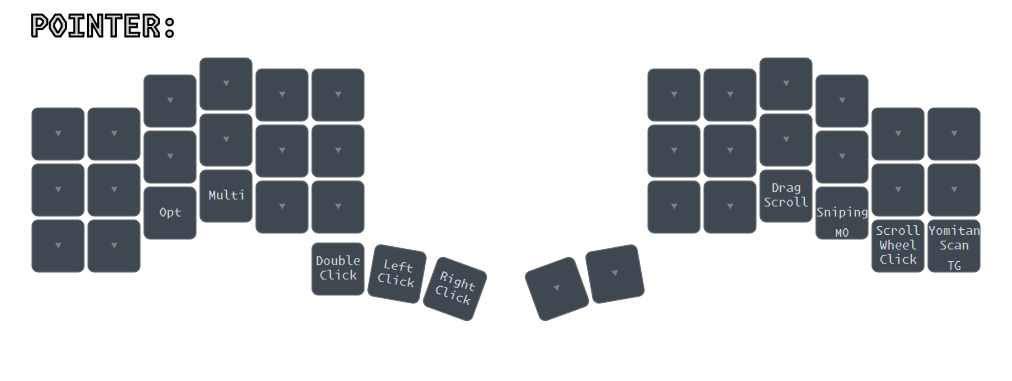
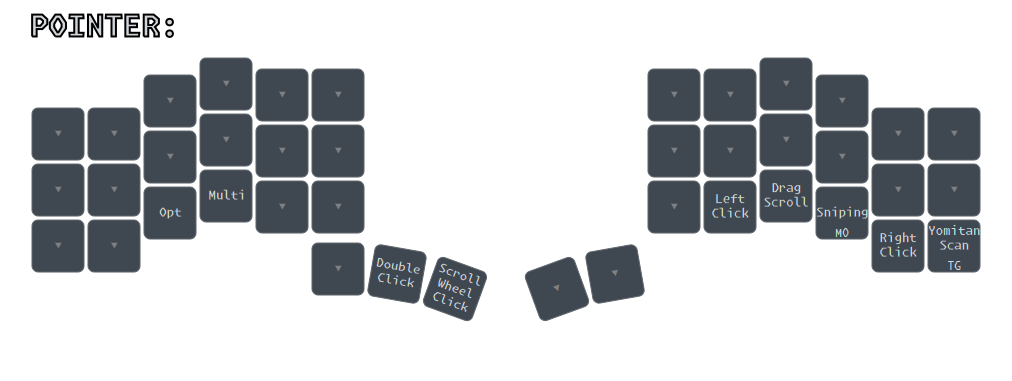
added mouse key combos

Changed region(s): [[0.3063, 0.664, 0.4901, 0.8084], [0.8577, 0.5774, 0.919, 0.6929], [0.7045, 0.4908, 0.7352, 0.5774]]

diff --git a/keyboards/bastardkb/charybdis/3x6/keymaps/eristocrates/keymap.c b/keyboards/bastardkb/charybdis/3x6/keymaps/eristocrates/keymap.c
@@ -214,9 +214,9 @@ const uint16_t PROGMEM keymaps[][MATRIX_ROWS][MATRIX_COLS] = {
   /* ├──────────────────────────────────────────────────────┤ ├──────────────────────────────────────────────────────┤ */
        _______, _______, _______, _______, _______, _______,    _______, _______, _______, _______, _______, _______,
   /* ├──────────────────────────────────────────────────────┤ ├──────────────────────────────────────────────────────┤ */
-       _______, _______, PNTROPT, KC_MLTI, _______, _______,    _______, _______, KC_DGSC, KC_SNPE, KC_BTN3, SCN_TOG,
+       _______, _______, PNTROPT, KC_MLTI, _______, _______,    _______, KC_BTN1, KC_DGSC, KC_SNPE, KC_BTN2, SCN_TOG,
   /* ╰──────────────────────────────────────────────────────┤ ├──────────────────────────────────────────────────────╯ */
-                                  KC_DBCL, KC_BTN1, KC_BTN2,      _______, _______
+                                  _______, KC_DBCL, KC_BTN3,      _______, _______
   /*                            ╰───────────────────────────╯ ╰──────────────────╯                                     */
   ),
 
@@ -324,7 +324,7 @@ const uint16_t PROGMEM keymaps[][MATRIX_ROWS][MATRIX_COLS] = {
   /* ├──────────────────────────────────────────────────────┤ ├──────────────────────────────────────────────────────┤ */
        _______, _______, _______, _______, _______, _______,    _______, _______, _______, _______, _______,    BASE,
   /* ╰──────────────────────────────────────────────────────┤ ├──────────────────────────────────────────────────────╯ */
-                                  _______, SECRETR, _______,    SECRET1, SECRET2
+                                  _______, SECRETR, SECRET3,    SECRET1, SECRET2
   /*                            ╰───────────────────────────╯ ╰──────────────────╯                                     */
   ),
 

diff --git a/users/eristocrates/eristocrates.c b/users/eristocrates/eristocrates.c
@@ -842,7 +842,7 @@ bool process_record_user(uint16_t keycode, keyrecord_t *record) {
             return false;
         }
         // konami code
-        if (input_buffer[INPUT_BUFFER_SIZE - 10] == KC_R && input_buffer[INPUT_BUFFER_SIZE - 9] == KC_R && input_buffer[INPUT_BUFFER_SIZE - 8] == KC_T && input_buffer[INPUT_BUFFER_SIZE - 7] == KC_T && input_buffer[INPUT_BUFFER_SIZE - 6] == KC_S && input_buffer[INPUT_BUFFER_SIZE - 5] == KC_N && input_buffer[INPUT_BUFFER_SIZE - 4] == KC_S && input_buffer[INPUT_BUFFER_SIZE - 3] == KC_N && input_buffer[INPUT_BUFFER_SIZE - 2] == KC_B && input_buffer[INPUT_BUFFER_SIZE - 1] == KC_A) {
+        if (input_buffer[INPUT_BUFFER_SIZE - 10] == KC_R && input_buffer[INPUT_BUFFER_SIZE - 9] == KC_R && input_buffer[INPUT_BUFFER_SIZE - 8] == KC_T && input_buffer[INPUT_BUFFER_SIZE - 7] == KC_T && input_buffer[INPUT_BUFFER_SIZE - 6] == KC_S && input_buffer[INPUT_BUFFER_SIZE - 5] == KC_N && input_buffer[INPUT_BUFFER_SIZE - 4] == KC_S && input_buffer[INPUT_BUFFER_SIZE - 3] == KC_N && input_buffer[INPUT_BUFFER_SIZE - 2] == KC_U && input_buffer[INPUT_BUFFER_SIZE - 1] == KC_A) {
             register_code(KC_LSFT);
             tap_code(KC_HOME);
             unregister_code(KC_LSFT);
@@ -1682,6 +1682,14 @@ bool process_record_user(uint16_t keycode, keyrecord_t *record) {
         case SECRET2: {
             if (record->event.pressed) {
                 SEND_STRING(SECRET_TWO);
+                tap_code(KC_ENT);
+                layer_off(_SECRET);
+            }
+        }
+            return false;
+        case SECRET3: {
+            if (record->event.pressed) {
+                SEND_STRING(SECRET_THREE);
                 tap_code(KC_ENT);
                 layer_off(_SECRET);
             }
@@ -2565,6 +2573,9 @@ void leader_end_user(void) {
     } else
     if (leader_sequence_four_keys(KC_S, KC_C, KC_R, KC_T)) {
             layer_on(_SECRET);
+    } else
+    if (leader_sequence_two_keys(KC_N, KC_P)) {
+            layer_on(_NUMPAD);
     } else
 
     // shortcuts

diff --git a/users/eristocrates/eristocrates_keycodes.h b/users/eristocrates/eristocrates_keycodes.h
@@ -143,6 +143,7 @@ enum keycodes {
     // secrets
     SECRET1,
     SECRET2,
+    SECRET3,
     SECRETR,
     SECRETC,
     SECRETT,
